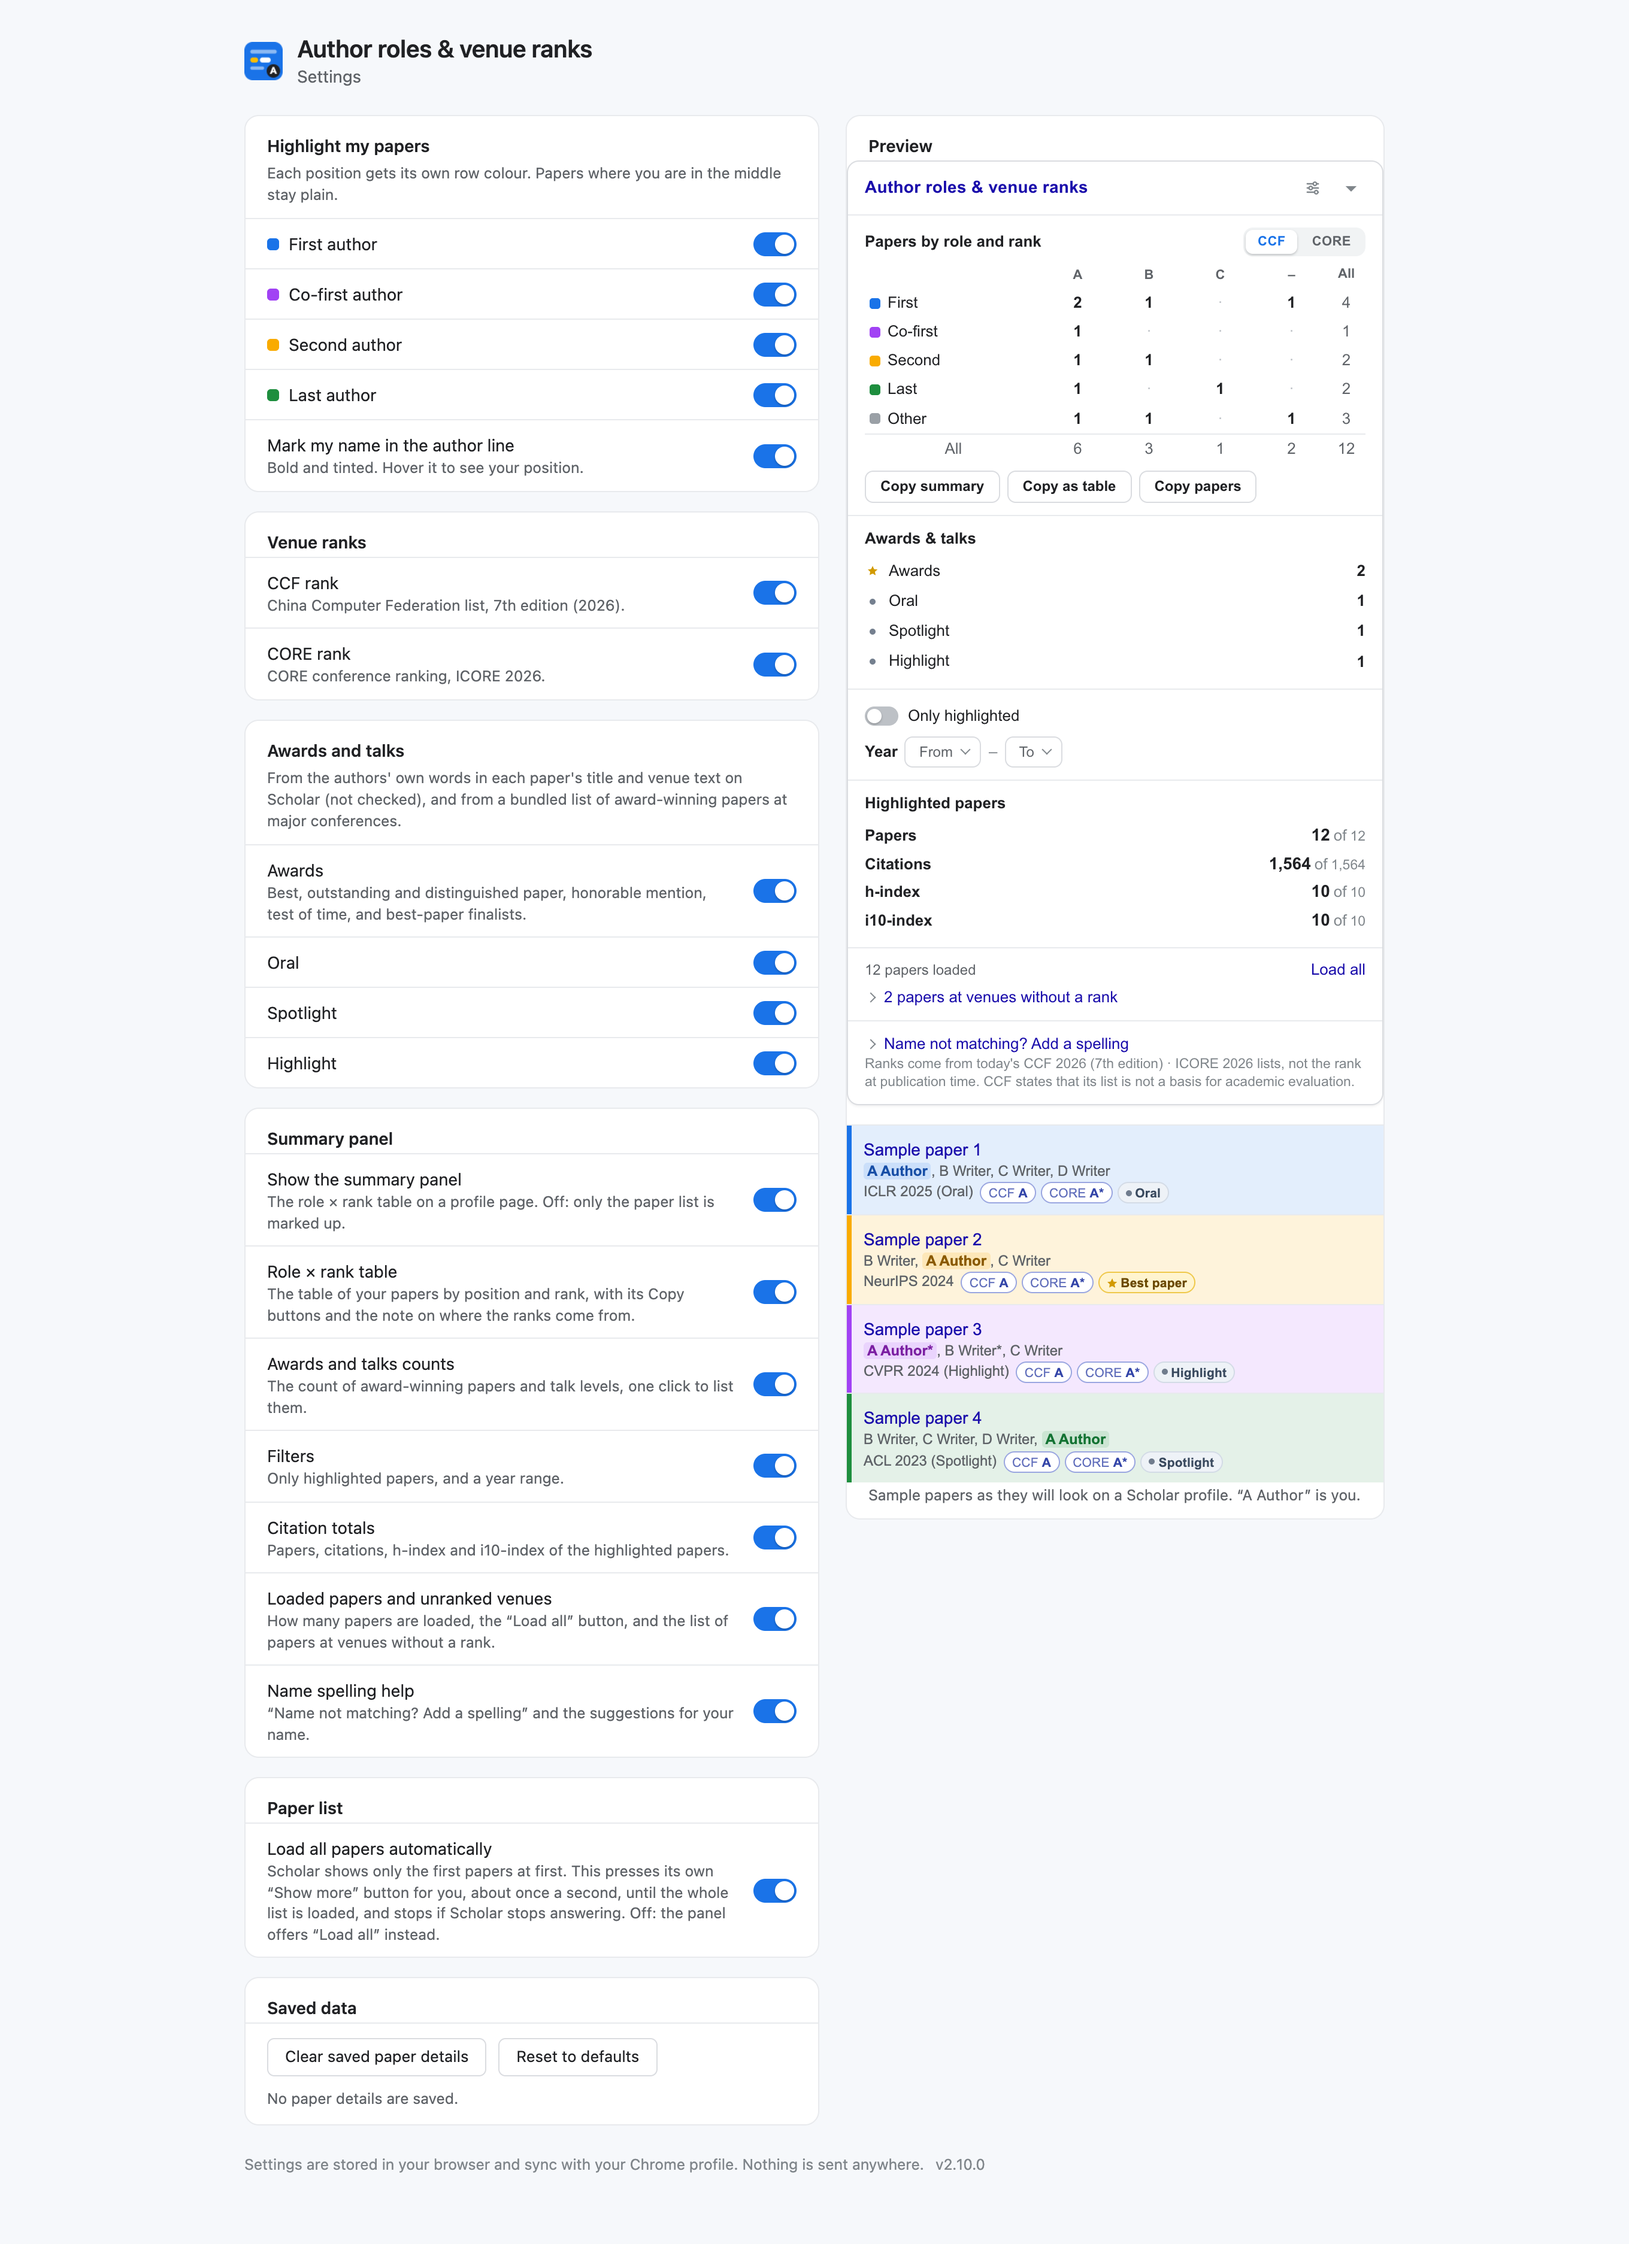
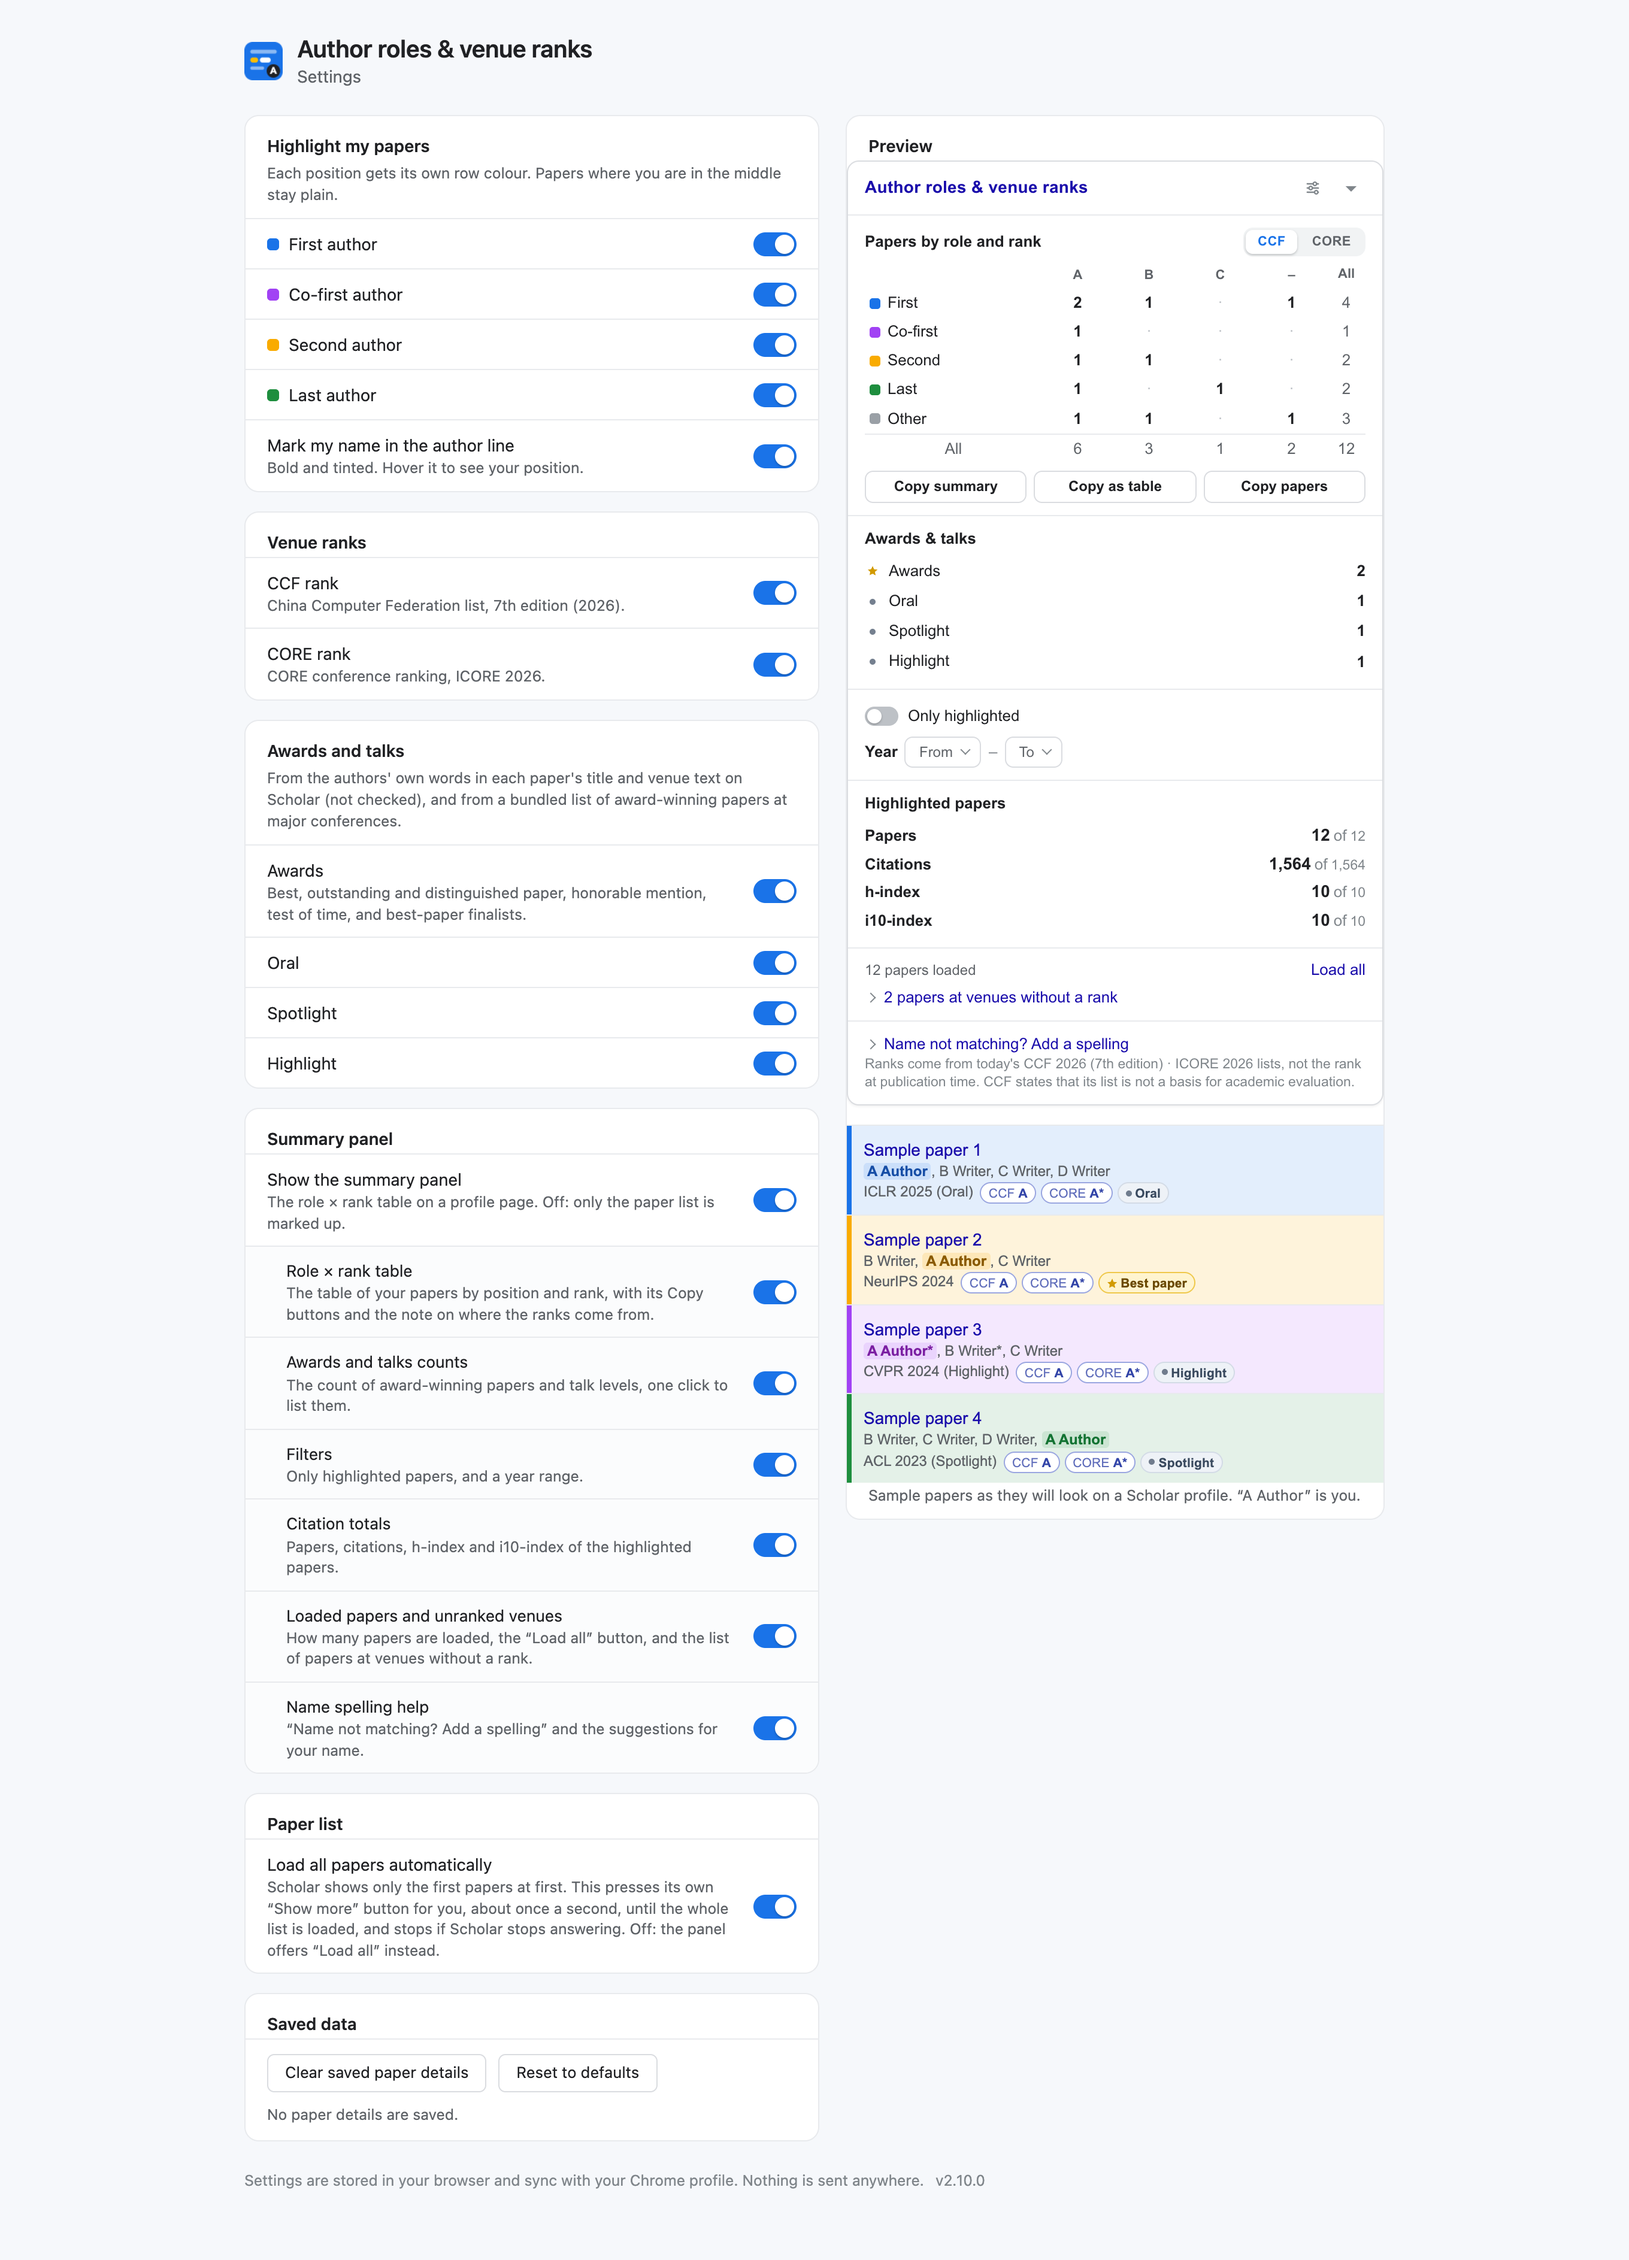
2.10.1: Copy buttons on one row; panel-part switches indented under the panel switch
Claude-Session: https://claude.ai/code/session_01GieBXSv3YotUEJWd7CJKD2

diff --git a/src/options/options.js b/src/options/options.js
@@ -37,9 +37,9 @@
 
   // One switch: a label, an optional hint and colour swatch, a getter and a setter on the prefs
   // (`key` is the pref's path, e.g. "ranks.ccf", kept on the input as data-pref).
-  function option({ key, label, hint, swatch, get, set, off }) {
+  function option({ key, label, hint, swatch, get, set, off, sub }) {
     const input = h("input", { type: "checkbox", class: "sw", "data-pref": key, onChange: () => { set(input.checked); save(); } });
-    const row = h("label", { class: "opt" },
+    const row = h("label", { class: "opt" + (sub ? " sub" : "") },
       h("span", { class: "txt" },
         h("span", { class: "name" }, swatch ? h("span", { class: "swatch", style: "background:" + swatch }) : null, label),
         hint ? h("span", { class: "hint" }, hint) : null),
@@ -87,7 +87,7 @@
       option({ key: "panel.show", label: t("optPanelShow"), hint: t("optPanelShowHint"), get: () => prefs.panel.show, set: (v) => { prefs.panel.show = v; } }),
       ...[["summary", t("optPanelSummary"), t("optPanelSummaryHint")], ["marks", t("optPanelMarks"), t("optPanelMarksHint")], ["filters", t("optPanelFilters"), t("optPanelFiltersHint")],
         ["metrics", t("optPanelMetrics"), t("optPanelMetricsHint")], ["status", t("optPanelStatus"), t("optPanelStatusHint")], ["names", t("optPanelNames"), t("optPanelNamesHint")]]
-        .map(([part, label, hint]) => option({ key: "panel." + part, label, hint, get: () => prefs.panel[part], set: (v) => { prefs.panel[part] = v; }, off: () => !prefs.panel.show }))),
+        .map(([part, label, hint]) => option({ key: "panel." + part, sub: true, label, hint, get: () => prefs.panel[part], set: (v) => { prefs.panel[part] = v; }, off: () => !prefs.panel.show }))),
     card(t("optLoadTitle"), null,
       option({ key: "autoLoad", label: t("optAutoLoad"), hint: t("optAutoLoadHint"), get: () => prefs.autoLoad, set: (v) => { prefs.autoLoad = v; } })),
     card(t("optDataTitle"), null, h("div", { class: "row" }, clearBtn, resetBtn, cacheNote)));

diff --git a/src/content/styles.css b/src/content/styles.css
@@ -139,6 +139,8 @@ tr.rr-hide { display: none !important; }
 #rr-panel .rr-cell[aria-pressed="true"], #rr-panel .rr-rolebtn[aria-pressed="true"]{ background: #e8f0fe; box-shadow: inset 0 0 0 1px var(--rr-accent); }
 #rr-panel .rr-total{ color: var(--rr-muted); font-weight: 700; padding-left: 4px; }
 #rr-panel .rr-actions{ display: flex; gap: 6px; margin-top: 8px; flex-wrap: wrap; }
+#rr-panel .rr-copybar{ display: grid; grid-template-columns: repeat(3, minmax(0, 1fr)); gap: 6px; }
+#rr-panel .rr-copybar .rr-btn{ padding: 4px 4px; text-align: center; white-space: nowrap; overflow: hidden; text-overflow: ellipsis; }
 #rr-panel .rr-btn{ padding: 4px 12px; border: 1px solid #dadce0; border-radius: 7px; background: #fff; font-size: 12px; font-weight: 600; color: var(--rr-text); transition: background .15s, border-color .15s, box-shadow .15s; }
 #rr-panel .rr-btn:hover:not([disabled]){ background: #f8f9fa; border-color: #c4c7cc; box-shadow: 0 1px 2px rgba(60,64,67,.14); }
 #rr-panel .rr-btn:active:not([disabled]){ background: #f1f3f4; box-shadow: none; }

diff --git a/src/content/panel.js b/src/content/panel.js
@@ -80,7 +80,7 @@
 
     const summaryHead = h("div", { class: "rr-sec-head" });
     const matrixBox = h("div", { "data-rr": "matrix" });
-    const actions = h("div", { class: "rr-actions" });
+    const actions = h("div", { class: "rr-actions rr-copybar" });
     const summarySec = h("div", { class: "rr-sec rr-summary" }, summaryHead, matrixBox, actions);
 
     // Awards & talks: one row per group that occurs; the section is absent when nothing qualifies

diff --git a/src/options/options.css b/src/options/options.css
@@ -52,3 +52,5 @@ button.btn:focus-visible { outline: 2px solid var(--accent); outline-offset: 2px
 .foot { margin-top: 8px; color: var(--faint); font-size: 12.5px; }
 .foot #ver { margin-left: 6px; }
 #pv-panel { margin: 0 0 12px; }
+.opt.sub { padding-left: 34px; background: #fbfcfd; }
+.opt.sub .name { font-size: 13.5px; }

diff --git a/CHANGELOG.md b/CHANGELOG.md
@@ -1,5 +1,9 @@
 # Changelog
 
+## 2.10.1 — 2026-10-12
+
+- The three Copy buttons share one row of equal width (the third used to drop alone onto a second line in the side panel); the panel-part switches on the settings page sit indented under "Show the summary panel".
+
 ## 2.10.0 — 2026-10-12
 
 From users' feedback (a long panel, controls that could not be switched off, markers in other fonts):
